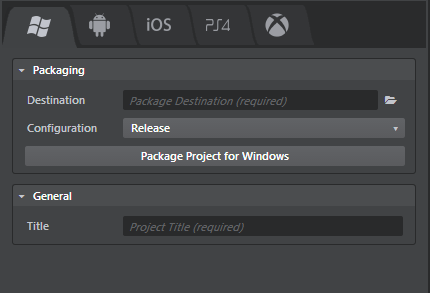
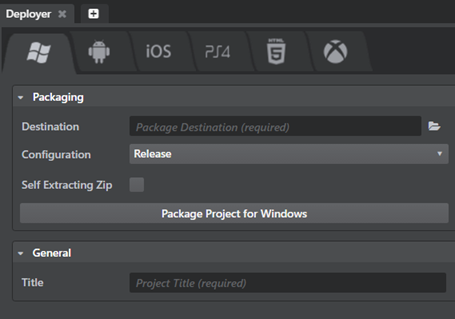
Add capture frame and deployer minor updates to 2.0 docs

diff --git a/source/interactive_help/lighting_rendering/capture_frames_tool.md b/source/interactive_help/lighting_rendering/capture_frames_tool.md
@@ -36,14 +36,14 @@ You can also capture negative frames, which use following naming convention; *<F
 <dd>The directory where your output is saved.</dd>
 
 <dt>File Name</dt>
-<dd>The name that is used for each file(s) that is saved.The file name contains #### frame padding to indicate the placement of frame numbers in the output files. You can have a file name with any number of # paddings. Note that there should be at least one number padding in the file name.
+<dd>The name that is used for each file(s) that is saved. The file name contains #### frame padding to indicate the placement of frame numbers in the output files. You can have a file name with any number of # paddings. Note that there should be at least one number padding in the file name.
 
 
 The # frame paddings could be in the beginning, middle and the end of the file name. For example, *###Filename.exr* would output frames *001Filename.exr*, *002Filename.exr*, ..,*010Filename.exr* and so on. If you have multiple # frame padding patterns, the capture engine always uses the last found ## pattern in a name to create the padding. For example *My###Filename-####Capture.exr* will output the frames as *My###Filename-0000Capture.exr*, *My###Filename-0001Capture.exr*, *My###Filename-0002Capture.exr* and the first left aligned pattern is ignored.
 </dd>
 
 <dt>File Type</dt>
-<dd>Lets you select a file type for your output. Currently, frames are exported using the OpenEXR format (.exr). The tool delivers three different buffers in OpenEXR when it captures:
+<dd>Lets you select a file type for your output. Frames are exported using either the PNG format or the OpenEXR format (.exr). The tool delivers three different buffers in OpenEXR when it captures:
 
 -   default: The output image in sRGB colorspace.
 -   hdr_no_post: An HDR version in linear colorspace.
@@ -55,6 +55,6 @@ The # frame paddings could be in the beginning, middle and the end of the file n
 <dd>The frame rate that is used to simulate the app or editor playback while capturing.</dd>
 
 <dt>Resolution</dt>
-<dd>Lets you set a resolution for your capture. Select 1920 x 1080 (default), 1280 x 780, or enter a custom resolution. The custom resolution you set here is available only when capturing from Story and not when capturing from Flow.</dd>
+<dd>Lets you set a resolution for your capture. Select 1920 x 1080 (default), 1280 x 720, or enter a custom resolution. The custom resolution you set here is available only when capturing from Story and not when capturing from Flow.</dd>
 
 >**Note:** Compile the level or press F5 before capturing to take into account the level changes, especially if you add back to the Capture Frames tool a camera previously used for frame capturing and then deleted from the level.

diff --git a/source/interactive_help/deploying/package_for_windows.md b/source/interactive_help/deploying/package_for_windows.md
@@ -5,9 +5,9 @@ To package a project for Windows:
 1.	In the interactive editor, open the **Deployer** panel to the Windows tab and enter the required information. (See below.)
 2.	Click **Package Project for Windows**.
 
-The deployer creates an executable file for your app, named according to the title you set in the **Title** field. It copies this *.exe* file, along with all required *.dll* files and bundled data, to the location on your computer that you specify in the **Destination** field.
+The deployer creates an executable file for your app, named according to the title you set in the **Title** field. It creates a self-extracting zip file containing this *.exe* file, along with all required *.dll* files and bundled data, and saves to the location on your computer that you specify in the **Destination** field.
 
-You can test or distribute your app by simply copying or zipping up this folder, or by packaging the folder contents into an installer.
+If **Self Extracting Zip** is unchecked, you can test or distribute your app by simply copying or zipping up the folder with the *.exe* file and the bundled data, or by packaging the folder contents into an installer.
 
 ## Additional runtime requirements
 
@@ -29,7 +29,12 @@ You can set the following options in the **Deployer** panel for Windows devices.
 
 ### Packaging settings
 
-These settings are common for all tabs. See ~{ Using the Deployer panel }~.
+The **Destination** and **Configuration** settings are common for all tabs. See ~{ Using the Deployer panel }~.
+
+<dl>
+<dt>Self Extracting Zip</dt>
+<dd>When checked, the deployer packages the project as a self-extracting installer file.</dd>
+</dl>
 
 ### General settings
 <dl>

diff --git a/source/interactive_release_notes/release_notes/readme_2.0.md b/source/interactive_release_notes/release_notes/readme_2.0.md
@@ -29,15 +29,11 @@ Sections in this topic:
 
 * * *
 
-## Header
-
-![Image placeholder](../images/physical_lights_rn.png)
-
-Placeholder text.
 
 ## What's new for developers?
 
-### Placeholder heading 3
+- The Capture Frames tool now supports capturing of frames in PNG format.
+- The Deployer supports bundling a project in a self-extracting zip file instead of creating an installer when you use the deployer panel to create a standalone package of your project for Windows. See the **Self Extracting Zip** option in ~{ Package the project for Windows }~.
 
 [Return to top](#top)
 
